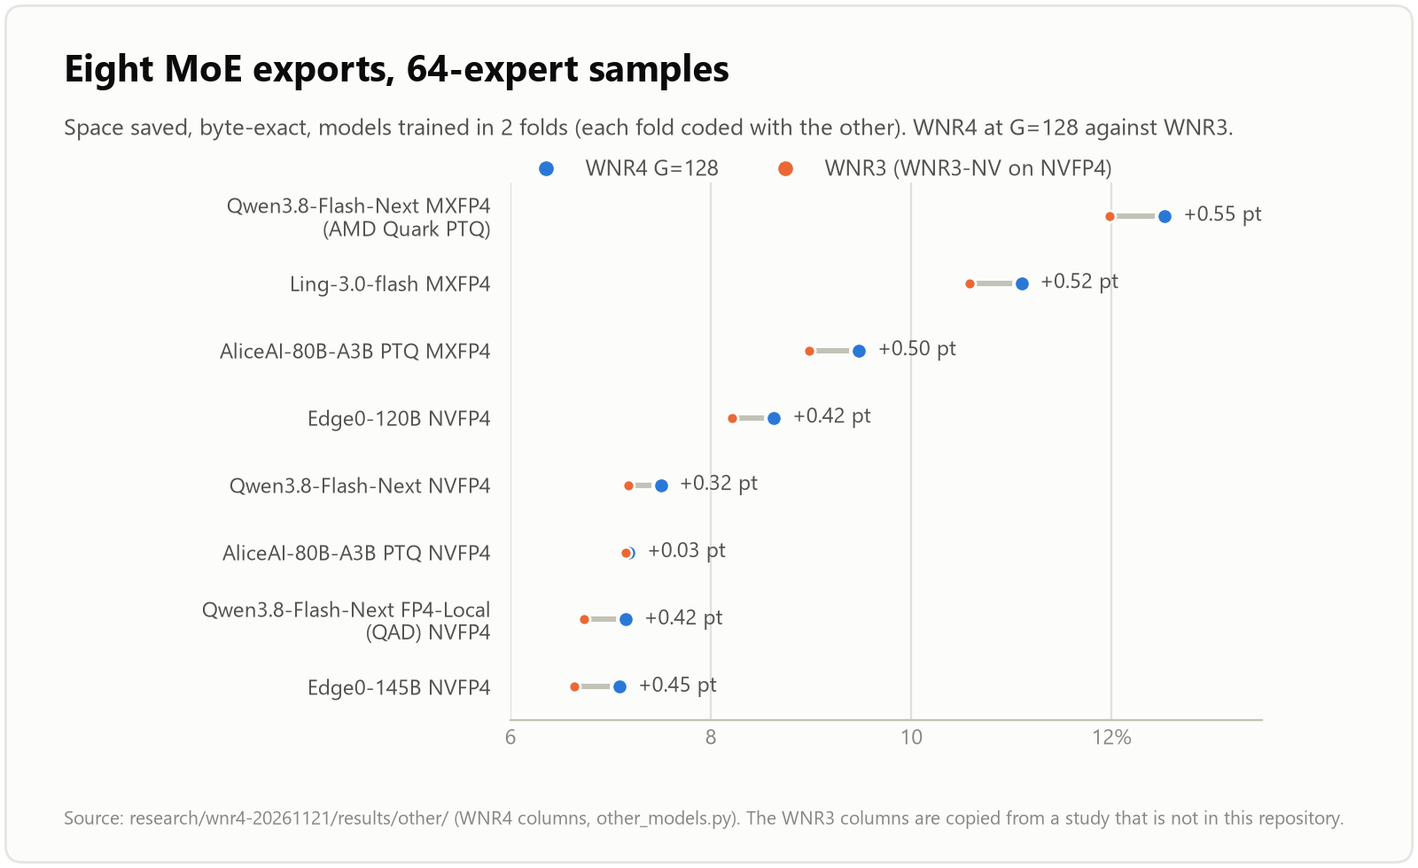
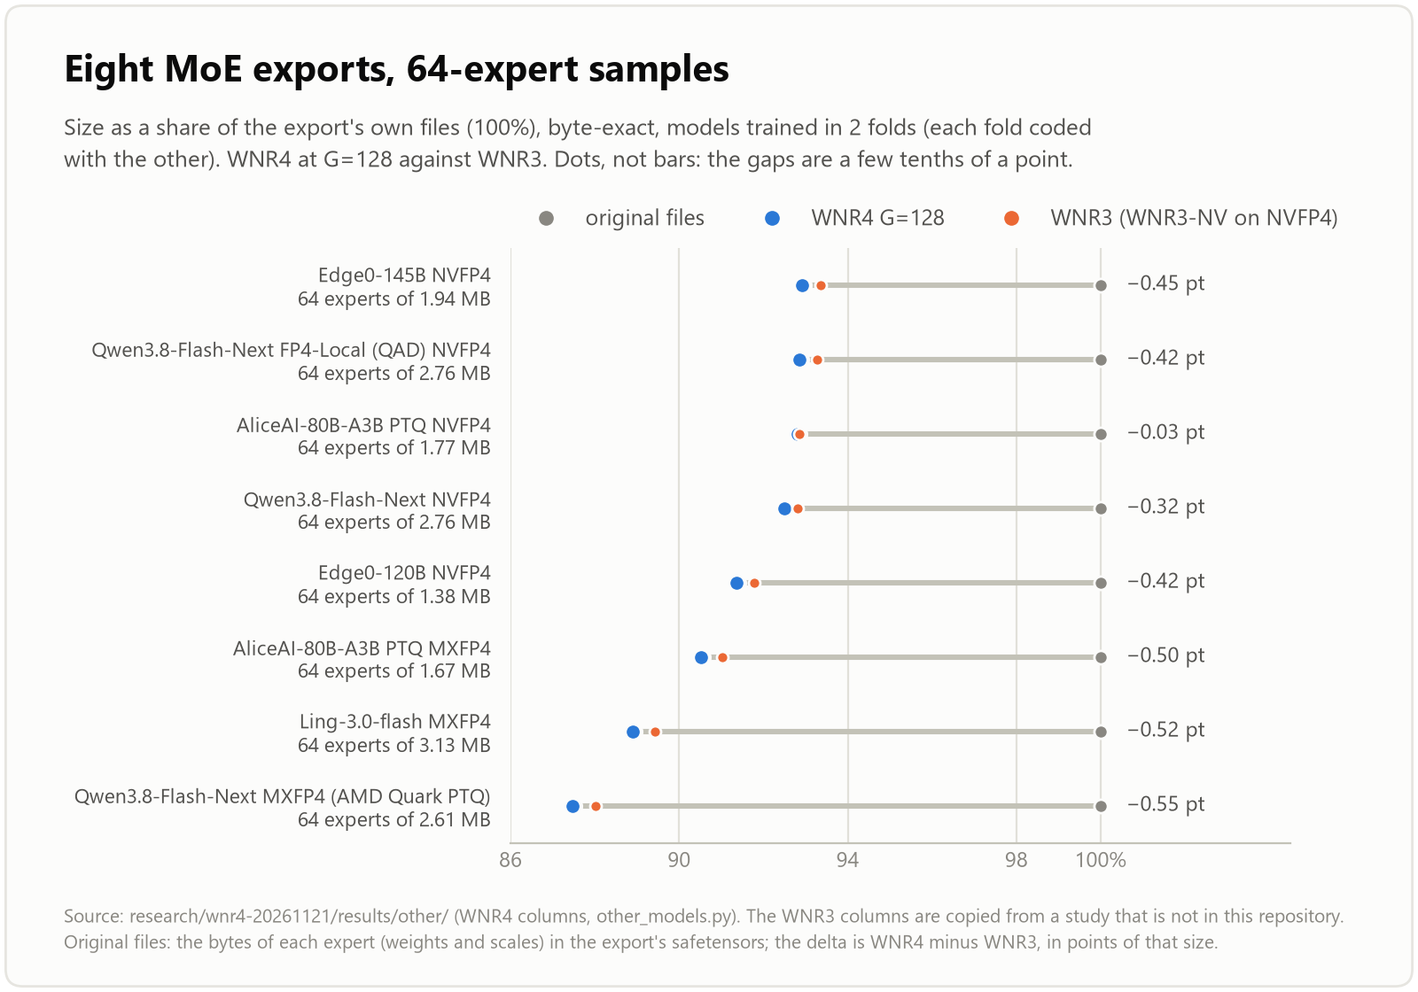
charts: a bar for each model's published files at the same quantization
The size charts now start from the routed-expert bytes as published
(same quantization as the container), then the containers and codecs:
- sizes: original MXFP4 safetensors -> raw WEX1/WEX4 (overhead labelled)
  -> WNR2 -> WNR3 -> WNR4 estimate
- codecs, wnr4-ratio: original bytes first, stored sizes in MB with deltas
- wnr4-models: sizes as a share of the export's own files (100%)

scripts/expert_bytes.py sums the expert tensors from the safetensors
headers on Hugging Face (range requests only, standard library).

diff --git a/research/wnr4-20261121/charts.py b/research/wnr4-20261121/charts.py
@@ -17,31 +17,31 @@ import chartstyle as cs  # noqa: E402
 RES = os.path.join(HERE, 'results')
 PACKS = [('q38mx', 'Qwen3.8 MXFP4'), ('q38nv', 'Qwen3.8 NVFP4'), ('v41', 'DeepSeek V4.1 MXFP4')]
 NVCOMP = {'q38mx': 0.8997, 'q38nv': 0.9372, 'v41': 0.8983}     # report section 6, fast at 8-64 records
+RECORD = {'q38mx': 2_611_200, 'q38nv': 2_764_800, 'v41': 18_800_640}   # bytes of one expert as published
 
 
-def pack_ratios(name):
+def pack_bytes(name):
+    """Bytes of a speed pack: its records as published, stored by WNR4 G=128, stored by WNR3 (WNR3-NV on NVFP4)."""
     d = json.load(open(os.path.join(RES, f'pack3-{name}.json'), encoding='utf-8'))
     wnr3 = d.get('wnr3_same_train') or d.get('wnr3nv_same_train_8192_2048')
-    return d['wnr4']['128']['ratio'], wnr3['ratio']
+    return d['raw_bytes'], d['wnr4']['128']['stored'], wnr3['stored']
 
 
 def chart_ratio(t):
-    h = 4.2
+    h = 5.4
     fig = cs.figure(t, h)
     cs.header(fig, t, 'WNR4 stores experts in fewer bytes',
-              'Space saved on the records of the speed packs (1 - stored/raw, higher is better), every record '
-              'decoded back\nand compared. NVFP4: byte-exact, WNR3 is WNR3-NV. V4.1: canonical zero (-0 stored as +0), as in production.', h)
-    x0, w, gap = 0.14, 0.25, 0.03
-    for k, (name, title) in enumerate(PACKS):
-        wnr4, wnr3 = pack_ratios(name)
-        ax = cs.axes(fig, t, [x0 + k * (w + gap), 0.26, w, 0.37], title)
-        labels = ['WNR4 G=128', 'WNR3', 'nvCOMP ANS']
-        cs.hbars(ax, labels, [100 * (1 - r) for r in (wnr4, wnr3, NVCOMP[name])], [t['blue'], t['orange'], t['gray']],
-                 t, 20.5, lambda v: f'{v:.1f}%', height=0.6)
-        ax.set_xticks([0, 5, 10, 15, 20])
-        ax.set_xticklabels(['0', '5', '10', '15', '20%'])
-        if k:
-            ax.set_yticklabels(['', '', ''])
+              'The records of the speed packs: their bytes as published, then stored (shorter is better), every '
+              'record decoded back\nand compared. NVFP4: byte-exact. V4.1: canonical zero (-0 stored as +0), as in '
+              'production.', h)
+    panels = []
+    for name, title in PACKS:
+        raw, wnr4, wnr3 = pack_bytes(name)
+        fmt = 'NVFP4' if 'NVFP4' in title else 'MXFP4'
+        panels.append((f'{title} · {raw // RECORD[name]} records', [
+            (f'original {fmt} files', raw, 'muted'), ('WNR4 G=128', wnr4, 'blue'),
+            ('WNR3-NV' if fmt == 'NVFP4' else 'WNR3', wnr3, 'orange'), ('nvCOMP ANS', raw * NVCOMP[name], 'gray')]))
+    cs.size_panels(fig, t, panels, 1.45, h)
     cs.footer(fig, t, 'Source: research/wnr4-20261121/results/pack3-*.json (128 Qwen3.8 and 32 V4.1 records, models '
               'counted on 256 other records).\nnvCOMP 6.0 ANS: the configuration that stays fast at 8-64 records '
               '(64-256 KiB chunks), docs/reports/wnr4-research-20261121.md\nsection 6; its harness is not in this '
@@ -100,34 +100,40 @@ def chart_models(t):
     for line in open(os.path.join(RES, 'other', 'summary.md'), encoding='utf-8'):
         cells = [c.strip() for c in line.strip().strip('|').split('|')]
         if len(cells) == 8 and cells[2][:2] == '0.':
-            rows.append((cells[0], float(cells[2]), float(cells[3])))
-    rows.sort(key=lambda r: r[1])
-    h = 4.9
+            rows.append((cells[0], cells[1], float(cells[2]), float(cells[3])))
+    rows.sort(key=lambda r: -r[2])
+    h = 5.6
     fig = cs.figure(t, h)
-    cs.header(fig, t, 'Eight MoE exports, 64-expert samples', 'Space saved, byte-exact, models trained in 2 folds ('
-              'each fold coded with the other). WNR4 at G=128 against WNR3.', h)
-    ax = cs.axes(fig, t, [0.36, 0.17, 0.53, 0.62])
+    cs.header(fig, t, 'Eight MoE exports, 64-expert samples', 'Size as a share of the export\'s own files (100%), '
+              'byte-exact, models trained in 2 folds (each fold coded\nwith the other). WNR4 at G=128 against WNR3. '
+              'Dots, not bars: the gaps are a few tenths of a point.', h)
+    ax = cs.axes(fig, t, [0.36, 0.15, 0.55, 0.6])
     n = len(rows)
     ax.set_ylim(n - 0.5, -0.5)
     ax.set_yticks(range(n))
-    ax.set_yticklabels([r[0].replace(' (', '\n(') if len(r[0]) > 34 else r[0] for r in rows], fontsize=8.5)
-    ax.set_xlim(6, 13.5)
-    ax.set_xticks([6, 8, 10, 12])
-    ax.set_xticklabels(['6', '8', '10', '12%'])
-    for i, (_, wnr3, wnr4) in enumerate(rows):
-        a, b = 100 * (1 - wnr3), 100 * (1 - wnr4)
-        ax.plot([a, b], [i, i], color=t['base'], linewidth=2.2, zorder=2, solid_capstyle='round')
+    ax.set_yticklabels([f'{name}\n64 experts of {rec}' for name, rec, _, _ in rows], fontsize=8.2, linespacing=1.25)
+    ax.set_xlim(86, 104.5)
+    ax.set_xticks([86, 90, 94, 98, 100])
+    ax.set_xticklabels(['86', '90', '94', '98', '100%'])
+    for i, (_, _, wnr3, wnr4) in enumerate(rows):
+        a, b = 100 * wnr3, 100 * wnr4
+        ax.plot([b, 100], [i, i], color=t['base'], linewidth=2.2, zorder=2, solid_capstyle='round')
+        ax.scatter([100], [i], s=30, color=t['muted'], zorder=3, edgecolors=t['surface'], linewidths=1.0)
         ax.scatter([b], [i], s=46, color=t['blue'], zorder=3, edgecolors=t['surface'], linewidths=1.5)
         ax.scatter([a], [i], s=22, color=t['orange'], zorder=4, edgecolors=t['surface'], linewidths=1.0)
-        ax.text(max(a, b) + 0.18, i, f'{b - a:+.2f} pt', va='center', ha='left', fontsize=8.5, color=t['ink2'])
+        ax.text(100.6, i, f'{b - a:+.2f} pt'.replace('-', '−'), va='center', ha='left', fontsize=8.5,
+                color=t['ink2'])
+    colors = (t['muted'], t['blue'], t['orange'])
     handles = [cs.plt.Line2D([], [], color=c, linestyle='none', marker='o', markersize=7, markeredgecolor=t['surface'])
-               for c in (t['blue'], t['orange'])]
-    leg = fig.legend(handles, ['WNR4 G=128', 'WNR3 (WNR3-NV on NVFP4)'], loc='upper left',
-                     bbox_to_anchor=(0.355, 0.84), ncol=2, frameon=False, fontsize=9)
+               for c in colors]
+    leg = fig.legend(handles, ['original files', 'WNR4 G=128', 'WNR3 (WNR3-NV on NVFP4)'], loc='upper left',
+                     bbox_to_anchor=(0.355, 0.81), ncol=3, frameon=False, fontsize=9)
     for txt in leg.get_texts():
         txt.set_color(t['ink2'])
     cs.footer(fig, t, 'Source: research/wnr4-20261121/results/other/ (WNR4 columns, other_models.py). The WNR3 '
-              'columns are copied from a study that is not in this repository.', h)
+              'columns are copied from a study that is not in this repository.\nOriginal files: the bytes of each '
+              'expert (weights and scales) in the export\'s safetensors; the delta is WNR4 minus WNR3, in points of that '
+              'size.', h)
     return fig
 
 

diff --git a/scripts/make_charts.py b/scripts/make_charts.py
@@ -20,27 +20,44 @@ import chartstyle as cs  # noqa: E402
 GB = 1e9
 
 
+# Routed-expert bytes of the published safetensors, summed from their headers by scripts/expert_bytes.py:
+# patrickbdevaney/DeepSeek-V4.1-Flash-1017-REAP192-MXFP4 @ 4ab649b2 (7,680 experts in 40 layers; the 384 MTP experts
+# have other names and are not counted) and amd/Qwen3.8-Flash-Next-Quark-MXFP4 @ b71e28af (24,576 experts).
+V41_ORIGINAL, Q38_ORIGINAL = 144_388_915_200, 64_172_851_200
+# WNR4 is not built as a whole container: the WNR3 container scaled by WNR4 / WNR3 on 2,048 held-out records
+# (research/wnr4-20261121/README.md, "Results": V4.1 0.8488 / 0.8539, Qwen3.8 MXFP4 0.8753 / 0.8809).
+V41_WNR4_EST, Q38_WNR4_EST = round(123_306_192_896 * 0.8488 / 0.8539), round(56_532_672_512 * 0.8753 / 0.8809)
+
+
 def chart_sizes(t):
-    # docs/BENCHMARKS.md, "DeepSeek V4.1 REAP-192: container sizes" and "Qwen3.8-Flash-Next MXFP4" (container row)
-    v41 = [('raw (WEX1)', 144_389_472_256, 'gray'), ('WNR2', 129_905_360_896, 'orange'),
-           ('WNR3-CZ', 123_306_192_896, 'blue')]
-    q38 = [('raw (WEX1)', 64_224_956_416, 'gray'), ('WNR3', 56_532_672_512, 'blue')]
-    h = 4.3
+    # docs/BENCHMARKS.md, "DeepSeek V4.1 REAP-192: container sizes" and "Qwen3.8-Flash-Next MXFP4" (container row);
+    # the Qwen3.8 WEX4 file size is in README.md ("Sizes of the real files").
+    v41 = [('original MXFP4 files', V41_ORIGINAL, 'muted', 'published safetensors'),
+           ('raw WEX1', 144_389_472_256, 'gray', '+557,056 B header and table'),
+           ('WNR2', 129_905_360_896, 'orange', None), ('WNR3-CZ', 123_306_192_896, 'blue', None),
+           ('WNR4 (estimate)', V41_WNR4_EST, 'aqua', None)]
+    q38 = [('original MXFP4 files', Q38_ORIGINAL, 'muted', 'published safetensors'),
+           ('raw WEX4', 64_251_047_936, 'gray', '+78.2 MB index and 4 KiB alignment'),
+           ('WNR3', 56_532_672_512, 'blue', None), ('WNR4 (estimate)', Q38_WNR4_EST, 'aqua', None)]
+    h = 5.6
     fig = cs.figure(t, h)
     cs.header(fig, t, 'Same experts, fewer bytes',
-              'Routed-expert records on disk. Every record decodes back to the original bytes\n'
-              '(WNR3-CZ: to the same values; -0 becomes +0).', h)
-    ax1 = cs.axes(fig, t, [0.20, 0.45, 0.74, 0.17], 'DeepSeek V4.1 REAP-192 · 7,680 experts')
-    ax2 = cs.axes(fig, t, [0.20, 0.19, 0.74, 0.115], 'Qwen3.8-Flash-Next MXFP4 · 24,576 experts')
+              'Routed-expert bytes: as published on Hugging Face, then in the containers. Every record decodes back\n'
+              'to the published bytes (WNR3-CZ: to the same values; -0 becomes +0).', h)
+    ax1 = cs.axes(fig, t, [0.25, 0.505, 0.69, 0.235], 'DeepSeek V4.1 REAP-192 MXFP4 · 7,680 experts')
+    ax2 = cs.axes(fig, t, [0.25, 0.195, 0.69, 0.19], 'Qwen3.8-Flash-Next MXFP4 · 24,576 experts')
     for ax, rows in ((ax1, v41), (ax2, q38)):
-        raw = rows[0][1]
-        cs.hbars(ax, [r[0] for r in rows], [r[1] / GB for r in rows], [t[r[2]] for r in rows], t, 165,
-                 lambda v: f'{v:.1f} GB', notes=[None] + [f'{r[1] / raw:.3f} of raw' for r in rows[1:]])
+        orig = rows[0][1]
+        cs.hbars(ax, [r[0] for r in rows], [r[1] / GB for r in rows], [t[r[2]] for r in rows], t, 240,
+                 lambda v: f'{v:.1f} GB',
+                 notes=[r[3] or f'{r[1] / orig:.3f} of original' for r in rows])
         ax.set_xticks(range(0, 161, 40))
     ax1.set_xticklabels([])
     ax2.set_xticklabels([f'{x} GB' for x in range(0, 161, 40)])
-    cs.footer(fig, t, 'Source: docs/BENCHMARKS.md, sections "DeepSeek V4.1 REAP-192: container sizes" and '
-              '"Qwen3.8-Flash-Next MXFP4". GB = 10^9 bytes.', h)
+    cs.footer(fig, t, 'Original: the expert tensors in the safetensors headers of patrickbdevaney/DeepSeek-V4.1-Flash-'
+              '1017-REAP192-MXFP4 @ 4ab649b2 and\namd/Qwen3.8-Flash-Next-Quark-MXFP4 @ b71e28af, summed by '
+              'scripts/expert_bytes.py. Containers: docs/BENCHMARKS.md and README.md. WNR4 estimate:\nthe WNR3 '
+              'container x WNR4/WNR3 on 2,048 held-out records (research/wnr4-20261121). GB = 10^9 bytes.', h)
     return fig
 
 
@@ -51,19 +68,15 @@ def chart_codecs(t):
     ratios = {'DeepSeek V4.1 Flash': [0.8796, 0.9222, 0.9268, 0.9297, 0.9306, 0.9557],
               'Qwen3-235B MXFP4': [0.8919, 0.8951, 0.8966, 0.8999, 0.9043, 0.9527],
               'MiniMax-M2.1 MXFP4': [0.8856, 0.9043, 0.9055, 0.9083, 0.9117, 0.9556]}
-    h = 4.2
+    record = {'DeepSeek V4.1 Flash': 18_800_640, 'Qwen3-235B MXFP4': 10_027_008, 'MiniMax-M2.1 MXFP4': 7_520_256}
+    h = 6.7
     fig = cs.figure(t, h)
     cs.header(fig, t, 'WNR3 saves more than general-purpose compressors',
-              'Space saved on 8 real MXFP4 expert records per checkpoint (1 - stored/raw, higher is better).', h)
-    x0, w, gap = 0.15, 0.245, 0.03
-    for k, (name, rs) in enumerate(ratios.items()):
-        ax = cs.axes(fig, t, [x0 + k * (w + gap), 0.20, w, 0.53], name)
-        cs.hbars(ax, codecs, [100 * (1 - r) for r in rs], [t['blue']] + [t['gray']] * 5, t, 16.5,
-                 lambda v: f'{v:.1f}%', height=0.6)
-        ax.set_xticks([0, 5, 10, 15])
-        ax.set_xticklabels(['0', '5', '10', '15%'])
-        if k:
-            ax.set_yticklabels([])
+              '8 real MXFP4 expert records per checkpoint: their bytes as published, then stored by each codec '
+              '(shorter is better).', h)
+    cs.size_panels(fig, t, [(f'{name} · 8 records of {record[name]:,} B', [('original MXFP4 files', 8 * record[name],
+                    'muted')] + [(c, 8 * record[name] * r, 'blue' if c == 'WNR3' else 'gray') for c, r in zip(codecs, rs)])
+                            for name, rs in ratios.items()], 1.3, h)
     cs.footer(fig, t, 'Source: docs/BENCHMARKS.md, "WNR3 against general-purpose codecs on real expert records" '
               '(2026-11-15). WNR3 byte-exact, with a model\ntrained on the same 8 records; brotli at level 11 (9 on '
               'MiniMax), the best general codec measured. The ratios do not depend on the machine.\nDecode speed, '

diff --git a/scripts/expert_bytes.py b/scripts/expert_bytes.py
@@ -1,0 +1,65 @@
+# SPDX-License-Identifier: Apache-2.0
+# Copyright 2026 Ludovico Zanichelli
+"""Bytes of the routed-expert tensors of a published safetensors checkpoint, read from its headers on Hugging Face.
+
+    python -I scripts/expert_bytes.py REPO PROFILE [REVISION]
+
+PROFILE is a naming profile of wex4/wex4_convert.py (PROFILES). The script lists the .safetensors files at
+REVISION (default: the current commit, which it prints), then the header of each shard with two HTTP range requests,
+and sums data_offsets over the tensors whose names match the profile's expert pattern (weights and scales of the
+three matrices). It prints the commit, the number of experts and layers found and the byte total per layer count.
+No tensor data is downloaded. Standard library only. scripts/make_charts.py copies the totals it prints."""
+import collections
+import json
+import os
+import struct
+import sys
+import urllib.request
+
+sys.path.insert(0, os.path.join(os.path.dirname(os.path.abspath(__file__)), '..', 'wex4'))
+import wex4_convert  # noqa: E402
+
+HOST = 'https://huggingface.co'
+
+
+def get(url, first=None, count=None):
+    req = urllib.request.Request(url, headers={'User-Agent': 'wex4-expert-bytes/1'})
+    if first is not None:
+        req.add_header('Range', f'bytes={first}-{first + count - 1}')
+    with urllib.request.urlopen(req, timeout=60) as r:
+        data = r.read()
+    if first is not None and len(data) != count:
+        raise SystemExit(f'{url}: asked {count} bytes, got {len(data)}')
+    return data
+
+
+def main(argv):
+    if len(argv) not in (3, 4):
+        raise SystemExit(__doc__)
+    repo, profile = argv[1], argv[2]
+    info = json.loads(get(f'{HOST}/api/models/{repo}' + (f'/revision/{argv[3]}' if len(argv) == 4 else '')))
+    rev = info['sha']
+    base = f'{HOST}/{repo}/resolve/{rev}/'
+    # every top-level .safetensors file of the commit (some checkpoints ship no index)
+    shards = sorted(s['rfilename'] for s in info['siblings']
+                    if s['rfilename'].endswith('.safetensors') and '/' not in s['rfilename'])
+    pattern = wex4_convert.expert_pattern(profile)
+    total, experts, per_layer = 0, set(), collections.Counter()
+    for shard in shards:
+        (n,) = struct.unpack('<Q', get(base + shard, 0, 8))
+        header = json.loads(get(base + shard, 8, n))
+        for name, spec in header.items():
+            m = pattern.match(name.encode()) if name != '__metadata__' else None
+            if m:
+                size = spec['data_offsets'][1] - spec['data_offsets'][0]
+                total += size
+                per_layer[int(m.group(1))] += size
+                experts.add((int(m.group(1)), int(m.group(2))))
+    print(f'{repo} @ {rev}: {len(shards)} shards, {len(experts)} experts in {len(per_layer)} layers, '
+          f'{total:,} B of expert tensors')
+    for layer in sorted(per_layer):
+        print(f'  layer {layer}: {sum(1 for e in experts if e[0] == layer)} experts, {per_layer[layer]:,} B')
+
+
+if __name__ == '__main__':
+    main(sys.argv)

diff --git a/scripts/chartstyle.py b/scripts/chartstyle.py
@@ -96,6 +96,22 @@ def hbars(ax, labels, values, colors, t, xmax, fmt, height=0.56, radius_px=4, no
                     zorder=4, bbox=mask)
 
 
+def size_panels(fig, t, panels, top_in, height_in, row_in=0.165, gap_in=0.5, left=0.25):
+    """Stacked panels of byte sizes in MB, one per (title, rows); rows are (label, bytes, color key) and the first
+    row is the original the others are compared with. Every panel has the same scale relative to its original."""
+    y = 1 - top_in / height_in
+    for title, rows in panels:
+        hgt = row_in * len(rows) / height_in
+        ax = axes(fig, t, [left, y - hgt, 0.94 - left, hgt], title)
+        orig = rows[0][1]
+        hbars(ax, [r[0] for r in rows], [r[1] / 1e6 for r in rows], [t[r[2]] for r in rows], t, 1.45 * orig / 1e6,
+              lambda v: f'{v:,.1f} MB', height=0.62,
+              notes=[None] + [f'{100 * (r[1] / orig - 1):+.1f}%'.replace('-', '−') for r in rows[1:]])
+        ax.set_xticks([])
+        ax.spines['bottom'].set_visible(False)
+        y -= hgt + gap_in / height_in
+
+
 def save(fig, out_dir, name, theme):
     os.makedirs(out_dir, exist_ok=True)
     path = os.path.join(out_dir, f'{name}-{theme}.png')

diff --git a/README.md b/README.md
@@ -153,12 +153,12 @@ The V4.1 switch report's own reading of its numbers: on this machine the second 
 
 <picture>
   <source media="(prefers-color-scheme: dark)" srcset="assets/charts/sizes-dark.png">
-  <img alt="Bar chart: routed-expert records on disk. DeepSeek V4.1 REAP-192: raw 144.4 GB, WNR2 129.9 GB, WNR3-CZ 123.3 GB (0.854 of raw). Qwen3.8-Flash-Next MXFP4: raw 64.2 GB, WNR3 56.5 GB (0.880 of raw)." src="assets/charts/sizes-light.png" width="800">
+  <img alt="Bar chart: routed-expert bytes as published and in the containers. DeepSeek V4.1 REAP-192 MXFP4: original MXFP4 safetensors 144.4 GB, raw WEX1 144.4 GB (+557,056 B header and table), WNR2 129.9 GB (0.900 of original), WNR3-CZ 123.3 GB (0.854), WNR4 estimate 122.6 GB (0.849). Qwen3.8-Flash-Next MXFP4: original 64.2 GB, raw WEX4 64.3 GB (+78.2 MB index and alignment), WNR3 56.5 GB (0.881), WNR4 estimate 56.2 GB (0.875)." src="assets/charts/sizes-light.png" width="800">
 </picture>
 
 <picture>
   <source media="(prefers-color-scheme: dark)" srcset="assets/charts/codecs-dark.png">
-  <img alt="Bar chart: space saved on 8 real MXFP4 expert records per checkpoint. DeepSeek V4.1 Flash: WNR3 12.0%, brotli 7.8%, zstd 19 7.3%. Qwen3-235B: WNR3 10.8%, brotli 10.5%. MiniMax-M2.1: WNR3 11.4%, brotli 9.6%." src="assets/charts/codecs-light.png" width="800">
+  <img alt="Bar chart: 8 real MXFP4 expert records per checkpoint, as published and stored by each codec. DeepSeek V4.1 Flash: original 150.4 MB, WNR3 132.3 MB (-12.0%), brotli 138.7 MB (-7.8%), zstd 19 139.4 MB (-7.3%). Qwen3-235B: original 80.2 MB, WNR3 71.5 MB (-10.8%), brotli 71.8 MB (-10.5%). MiniMax-M2.1: original 60.2 MB, WNR3 53.3 MB (-11.4%), brotli 54.4 MB (-9.6%)." src="assets/charts/codecs-light.png" width="800">
 </picture>
 
 <picture>
@@ -171,7 +171,7 @@ The V4.1 switch report's own reading of its numbers: on this machine the second 
   <img alt="Bar charts: 136 conformance vectors (16 accepted, 120 refused, by error class) and 14 CI jobs per pull request (Linux x86-64 7, Linux arm64 3, macOS arm64 3, Windows 1)." src="assets/charts/tests-light.png" width="800">
 </picture>
 
-Each chart names its source in its footnote; `python scripts/make_charts.py` draws them again (matplotlib), in a light and a dark version.
+Each chart names its source in its footnote; `python scripts/make_charts.py` draws them again (matplotlib), in a light and a dark version. The "original" bars are the expert bytes of the published safetensors: `python -I scripts/expert_bytes.py REPO PROFILE` sums them from the shard headers on Hugging Face (two range requests per shard, no tensor data).
 
 ## What runs today
 
@@ -234,7 +234,7 @@ wex4/          WEX4, repo-only: Python reference, converter, C tools, tests, rev
 impl/          readers written from the specifications alone, not from the code here
   go-wex4/        WEX4 reader, verifier and writer in Go, with WBP1 and WNR3 codecs and a WNM2 trainer; SPEC-NOTES.md: what the specs left open
   rust-wex4/      WEX4 reader and verifier in Rust, with WBP1 and WNR3 decoders and its own SHA-256; SPEC-NOTES.md, and differential.py against the C and Python readers
-scripts/       repo-only checks: check_all.sh (the CPU checks that need only gcc and Python), build_cpu_check.sh, sanitize_c.sh and sanitize_libs.c, verify_wex1.py and its test; make_charts.py and chartstyle.py (the README charts)
+scripts/       repo-only checks: check_all.sh (the CPU checks that need only gcc and Python), build_cpu_check.sh, sanitize_c.sh and sanitize_libs.c, verify_wex1.py and its test; make_charts.py, chartstyle.py and expert_bytes.py (the README charts)
 bench/         hardware benchmark for testers (bench.py, Linux and Windows) and the Linux and macOS read paths for expert records (wex_io.py)
 archive/       the WNR2 lab code (encoder, trainer, checks) and its benches, kept for the record
 models/        trained WNM2 models: DeepSeek V4 Flash 0731 and V4.1 REAP-192

diff --git a/docs/reports/wnr4-research-20261121.md b/docs/reports/wnr4-research-20261121.md
@@ -12,7 +12,7 @@
 
 <picture>
   <source media="(prefers-color-scheme: dark)" srcset="../../research/wnr4-20261121/charts/wnr4-ratio-dark.png">
-  <img alt="Bar charts: space saved on the speed packs. Qwen3.8 MXFP4: WNR4 12.4%, WNR3 11.9%, nvCOMP ANS 10.0%. Qwen3.8 NVFP4: WNR4 7.6%, WNR3-NV 7.3%, nvCOMP ANS 6.3%. DeepSeek V4.1: WNR4 15.2%, WNR3 14.6%, nvCOMP ANS 10.2%." src="../../research/wnr4-20261121/charts/wnr4-ratio-light.png" width="800">
+  <img alt="Bar charts: the speed packs as published and stored. Qwen3.8 MXFP4, 128 records: original 334.2 MB, WNR4 292.6 MB (-12.4%), WNR3 294.5 MB (-11.9%), nvCOMP ANS 300.7 MB (-10.0%). Qwen3.8 NVFP4, 128 records: original 353.9 MB, WNR4 327.0 MB (-7.6%), WNR3-NV 328.1 MB (-7.3%), nvCOMP ANS 331.7 MB (-6.3%). DeepSeek V4.1, 32 records: original 601.6 MB, WNR4 510.4 MB (-15.2%), WNR3 513.5 MB (-14.6%), nvCOMP ANS 540.4 MB (-10.2%)." src="../../research/wnr4-20261121/charts/wnr4-ratio-light.png" width="800">
 </picture>
 
 <picture>
@@ -22,7 +22,7 @@
 
 <picture>
   <source media="(prefers-color-scheme: dark)" srcset="../../research/wnr4-20261121/charts/wnr4-models-dark.png">
-  <img alt="Dot chart: space saved by WNR4 against WNR3 on 64-expert samples of eight MoE exports; WNR4 saves 0.32 to 0.55 points more on seven and ties on AliceAI NVFP4." src="../../research/wnr4-20261121/charts/wnr4-models-light.png" width="800">
+  <img alt="Dot chart: size as a share of the export's own files (100%) on 64-expert samples of eight MoE exports, WNR3 between 88.0% and 93.4%; WNR4 is 0.32 to 0.55 points smaller than WNR3 on seven and ties on AliceAI NVFP4." src="../../research/wnr4-20261121/charts/wnr4-models-light.png" width="800">
 </picture>
 
 Everything here is measured on this machine (RTX 5090, Ryzen 9 7950X3D, 32 GB) unless marked. Literature: [research/wnr4-20261121/literature.md](../../research/wnr4-20261121/literature.md). Format: [WNR4-SPEC.md](../WNR4-SPEC.md). Code and raw results: [research/wnr4-20261121](../../research/wnr4-20261121/README.md).

diff --git a/research/wnr4-20261121/README.md b/research/wnr4-20261121/README.md
@@ -26,7 +26,7 @@ Stored / raw (records padded to 4096 B), 2048 held-out records each, every recor
 
 <picture>
   <source media="(prefers-color-scheme: dark)" srcset="charts/wnr4-ratio-dark.png">
-  <img alt="Bar charts: space saved on the speed packs. Qwen3.8 MXFP4: WNR4 12.4%, WNR3 11.9%, nvCOMP ANS 10.0%. Qwen3.8 NVFP4: WNR4 7.6%, WNR3-NV 7.3%, nvCOMP ANS 6.3%. DeepSeek V4.1: WNR4 15.2%, WNR3 14.6%, nvCOMP ANS 10.2%." src="charts/wnr4-ratio-light.png" width="800">
+  <img alt="Bar charts: the speed packs as published and stored. Qwen3.8 MXFP4, 128 records: original 334.2 MB, WNR4 292.6 MB (-12.4%), WNR3 294.5 MB (-11.9%), nvCOMP ANS 300.7 MB (-10.0%). Qwen3.8 NVFP4, 128 records: original 353.9 MB, WNR4 327.0 MB (-7.6%), WNR3-NV 328.1 MB (-7.3%), nvCOMP ANS 331.7 MB (-6.3%). DeepSeek V4.1, 32 records: original 601.6 MB, WNR4 510.4 MB (-15.2%), WNR3 513.5 MB (-14.6%), nvCOMP ANS 540.4 MB (-10.2%)." src="charts/wnr4-ratio-light.png" width="800">
 </picture>
 
 <picture>
@@ -36,7 +36,7 @@ Stored / raw (records padded to 4096 B), 2048 held-out records each, every recor
 
 <picture>
   <source media="(prefers-color-scheme: dark)" srcset="charts/wnr4-models-dark.png">
-  <img alt="Dot chart: space saved by WNR4 against WNR3 on 64-expert samples of eight MoE exports; WNR4 saves 0.32 to 0.55 points more on seven and ties on AliceAI NVFP4." src="charts/wnr4-models-light.png" width="800">
+  <img alt="Dot chart: size as a share of the export's own files (100%) on 64-expert samples of eight MoE exports, WNR3 between 88.0% and 93.4%; WNR4 is 0.32 to 0.55 points smaller than WNR3 on seven and ties on AliceAI NVFP4." src="charts/wnr4-models-light.png" width="800">
 </picture>
 
 From page-locked host memory, upload included, WNR4 reaches 49-54 GB/s on Qwen3.8 MXFP4 (the PCIe 5 upload is the limit). The full tables, the G sweep, the CPU decoder, the nvCOMP and NVDEC baselines and the other models are in the [dated report](../../docs/reports/wnr4-research-20261121.md).
